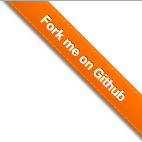
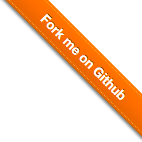
MOD:download link

Changed region(s): [[0.0, 0.0, 1.0, 0.9859], [0.2817, 0.0845, 0.9014, 0.7324]]

diff --git a/demo.html b/demo.html
@@ -11,7 +11,7 @@
 <script src="./github-fork-ribbon.js"></script>
 <script>
     var gf = new githubFork({
-        type: 'red',
+        type: 'orange',
     });
 </script>
 
